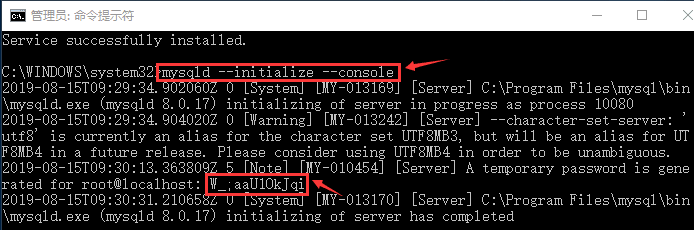
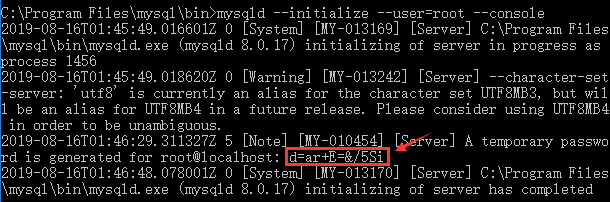
内容更新

diff --git a/C01-安装.md b/C01-安装.md
@@ -48,11 +48,11 @@ Mysql下载下来是一个压缩包，将其解压至指定目录，比如：“
 
 ![](./IMGS/install_windows_unpack.png)
 
-# 二、配置
+# 二、应用
 
 ## 1. macOS 系统
 
-### 1.1. 配置环境变量
+### 1.1. 环境变量
 
 ```shell
 $ vim  ~/.bash_profile 
@@ -70,7 +70,7 @@ $ vim  ~/.bash_profile
 $ source ~/.bash_profile 
 ```
 
-### 1.2.  生成配置文件
+### 1.2.  配置文件
 
  在Mac系统中，安装完MySQL后，是没有自动生成MySQL的配置文件的，所以我们需要手动创建。
 
@@ -83,9 +83,45 @@ $ touch my.cnf
 $ sudo chmod 664 my.cnf 
 ```
 
+### 1.3. 登陆
+
+```shell
+$ mysql -u root -p
+Enter password: 
+Welcome to the MySQL monitor.  Commands end with ; or \g.
+Your MySQL connection id is 10
+Server version: 8.0.16 MySQL Community Server - GPL
+
+Copyright (c) 2000, 2019, Oracle and/or its affiliates. All rights reserved.
+
+Oracle is a registered trademark of Oracle Corporation and/or its
+affiliates. Other names may be trademarks of their respective
+owners.
+
+Type 'help;' or '\h' for help. Type '\c' to clear the current input statement.
+
+mysql> 
+```
+
+### 1.4. 验证
+
+```mysql
+mysql> SHOW DATABASES;
++--------------------+
+| Database           |
++--------------------+
+| db_test            |
+| information_schema |
+| mysql              |
+| performance_schema |
+| test_db            |
++--------------------+
+5 rows in set (0.12 sec)
+```
+
 ## 2. Windows 系统
 
-### 2.1. 配置环境变量
+### 2.1. 环境变量
 
 在“此电脑”上鼠标右键选中“属性” -> 点击“高级系统设置” -> 点击“环境变量” -> 在系统变量下点击“新建” -> 设置变量名和值 -> 点击确定保存
 
@@ -101,98 +137,99 @@ $ sudo chmod 664 my.cnf
 
 ### 2.2. 配置文件
 
-首先可以看见安装目录下没有my.ini文件或者my-default.ini文件，于是自己在安装目录下创建一个my.ini文件，文件内容如下:
+在安装目录下创建my.ini文件，内容如下:
 
 ```ini
-[mysqld]
-# 设置端口号
-port=3306
-# 设置mysql的安装目录
-basedir=C:\Program Files\mysql
-# 设置mysql数据库的数据的存放目录
-datadir=C:\Program Files\mysql\data
-# 允许最大连接数
-max_connections=200
-# 允许连接失败的次数。这是为了防止有人从该主机试图攻击数据库系统
-max_connect_errors=10
-# 服务端使用的字符集默认为UTF8
-character-set-server=utf8
-# 创建新表时将使用的默认存储引擎
-default-storage-engine=INNODB
-# 默认使用“mysql_native_password”插件认证
-default_authentication_plugin=mysql_native_password
-[mysql]
-# 设置mysql客户端默认字符集
-default-character-set=utf8
+# 【客户端】
 [client]
 # 设置mysql客户端连接服务端时默认使用的端口
 port=3306
+socket = /tmp/mysql.sock
+default-character-set=utf8
+# tips：可以设置账号密码直接登录
+# username=账号
+# password=密码
+[mysql]
+# 设置mysql客户端默认字符集
+default-character-set=utf8
+
+
+# 【服务端】
+[mysqld]
+# 设置监听mysql的端口号
+port=3306
+socket = /tmp/mysql.sock
+# 设置mysql安装目录(所有的路径都是作为这个路径的相对路径)
+basedir=C:\Program Files\mysql
+# 设置mysql数据库数据的存放目录
+datadir=C:\Program Files\mysql\data
+# 设置新建表时默认的字编码
+character-set-server=utf8
+# 设置新建表时默认的存储引擎
+default-storage-engine=INNODB
+# 设置服务端允许并发的最大连接数
+max_connections=200
+# 允许连接失败的次数。这是为了防止有人从该主机试图攻击数据库系统
+max_connect_errors=10
 ```
 
-写好了配置文件之后，以管理员身份运行终端：
+### 2.3. 启动服务
+
+stips 1 -> 以管理员身份运行终端：
 
 ![](./IMGS/run_with_manger.png)
 
-然后先给mysql服务创建名称(方便到时候建立多个mysql服务时不冲突)
+stips 2 -> 安装服务
 
 ```shell
-mysqld --install mysql_test
+$ mysqld --install 
 ```
 
-名字可以根据自己的需要配置，接下来初始化mysql：
+![](./imgs/mysql_install.png)
+
+stips 3 -> 初始化mysql
 
 ```shell
-mysqld --initialize --console
+$ mysqld --initialize --user=root --console
 ```
+
+执行 MySQL 初始化命令，在 MySQL 目录下生成 data 文件夹，如图所示。
 
 ![](./IMGS/mysql_init_windows.png)
 
-接下来启动mysql服务：
+> 提示：如果动作太快或者忘记了密码，可以删除data文件，重新初始化mysql。
+
+stips 4 -> 启动mysql服务
 
 ```shell
-net start mysql_test
+$ net start mysql
 ```
 
 ![](./IMGS/net_start_service.png)
 
-
-
-
-
-# 三、登陆
+### 2.4. 登陆
 
 ```shell
 $ mysql -u root -p
-Enter password: 
-Welcome to the MySQL monitor.  Commands end with ; or \g.
-Your MySQL connection id is 8
-Server version: 8.0.16 MySQL Community Server - GPL
-
-Copyright (c) 2000, 2019, Oracle and/or its affiliates. All rights reserved.
-
-Oracle is a registered trademark of Oracle Corporation and/or its
-affiliates. Other names may be trademarks of their respective
-owners.
-
-Type 'help;' or '\h' for help. Type '\c' to clear the current input statement.
 ```
 
-输入指令：`show databases;` 这个命令后面一定要加分号，表示sql语句结束。这个命令用于表示显示默认安装的数据库，如下图显示安装成功。
+![](./IMGS/login_for_windows.png)
+
+### 2.5. 修改密码
 
 ```shell
-mysql> show databases;
-+--------------------+
-| Database           |
-+--------------------+
-| information_schema |
-| mysql              |
-| performance_schema |
-| sys                |
-+--------------------+
-4 rows in set (0.01 sec)
+$ ALTER USER <用户名>@<主机名> IDENTIFIED BY <密码>
 ```
 
-退出：`\q`
+![](./IMGS/alter_psw.png)
+
+### 2.6. 验证
+
+![](./IMGS/test_for_windows.png)
+
+
+
+
 
 
 

diff --git a/C02-用户.md b/C02-用户.md
@@ -1,0 +1,114 @@
+为了实现良好的安全性，需要为每个应用程序创建单独的用户帐户，而不是root用户访问数据库。这将确保应用程序无法访问其他应用程序的数据库。因此需要mysql管理员（root）权限来创建用户帐户并为数据库分配权限。
+
+# 一、创建用户
+
+语法格式：
+
+```mysql
+CREATE USER 'user_name'@'host_name' IDENTIFIED BY PASSWORD 
+```
+
+代码示例：
+
+```mysql
+mysql> CREATE USER "lihy"@"localhost" IDENTIFIED BY "1234";
+Query OK, 0 rows affected (0.05 sec)
+```
+
+使用新创建的用户 lihy 和密码 123 登录数据库服务器，如下所示：
+
+```shell
+$ mysql -h localhost -u lihy -p
+Enter password: 
+Welcome to the MySQL monitor.  Commands end with ; or \g.
+Your MySQL connection id is 9
+Server version: 8.0.16 MySQL Community Server - GPL
+
+Copyright (c) 2000, 2019, Oracle and/or its affiliates. All rights reserved.
+
+Oracle is a registered trademark of Oracle Corporation and/or its
+affiliates. Other names may be trademarks of their respective
+owners.
+
+Type 'help;' or '\h' for help. Type '\c' to clear the current input statement.
+
+mysql> 
+```
+
+# 二、用户授权
+
+当成功创建用户账户后，还不能执行任何操作，需要为该用户分配适当的访问权限。可以使用 SHOW GRANT FOR 语句来查询用户的权限。
+
+> 注意：新创建的用户只有登录 MySQL 服务器的权限，没有任何其他权限，不能进行其他操作。
+
+对于新建的 MySQL 用户，必须给它授权，可以用 GRANT 语句来实现对新建用户的授权。
+
+```mysql
+mysql> GRANT ALL ON db_test.*  TO "lihy"@"localhost";
+Query OK, 0 rows affected (0.00 sec)
+
+```
+
+刷新权限：
+
+```mysql
+mysql> FLUSH PRIVILEGES;
+Query OK, 0 rows affected (0.00 sec)
+```
+
+上述示例给“lihy”这个用户开放了 “db_test” 这个数据库的所有权限。
+
+如果要撤销授权，可通过如下指令：
+
+```mysql
+mysql> REVOKE ALL ON db_test.* TO 'lihy'@'localhost';
+mysql> FLUSH PRIVILEGES;
+```
+
+# 三、修改用户
+
+## 1. 修改用户名
+
+语法格式：
+
+```mysql
+RENAME USER <旧用户> TO <新用户>;
+```
+
+代码示例：
+
+```mysql
+mysql> RENAME USER "lihy"@"localhost" TO "admin"@"localhost";
+Query OK, 0 rows affected (0.11 sec)
+```
+
+## 2. 修改密码
+
+代码示例：
+
+```mysql
+ALTER USER <用户名> IDENTIFIED  BY <新密码>;
+```
+
+应用实例：
+
+```mysql
+mysql> ALTER USER "admin"@"localhost" IDENTIFIED BY "1234";
+Query OK, 0 rows affected (0.13 sec)
+```
+
+# 四、删除用户
+
+语法格式：
+
+```mysql
+DROP USER <用户名>;
+```
+
+代码示例：
+
+```mysql
+mysql> DROP USER "admin"@"localhost";
+Query OK, 0 rows affected (0.11 sec)
+```
+
